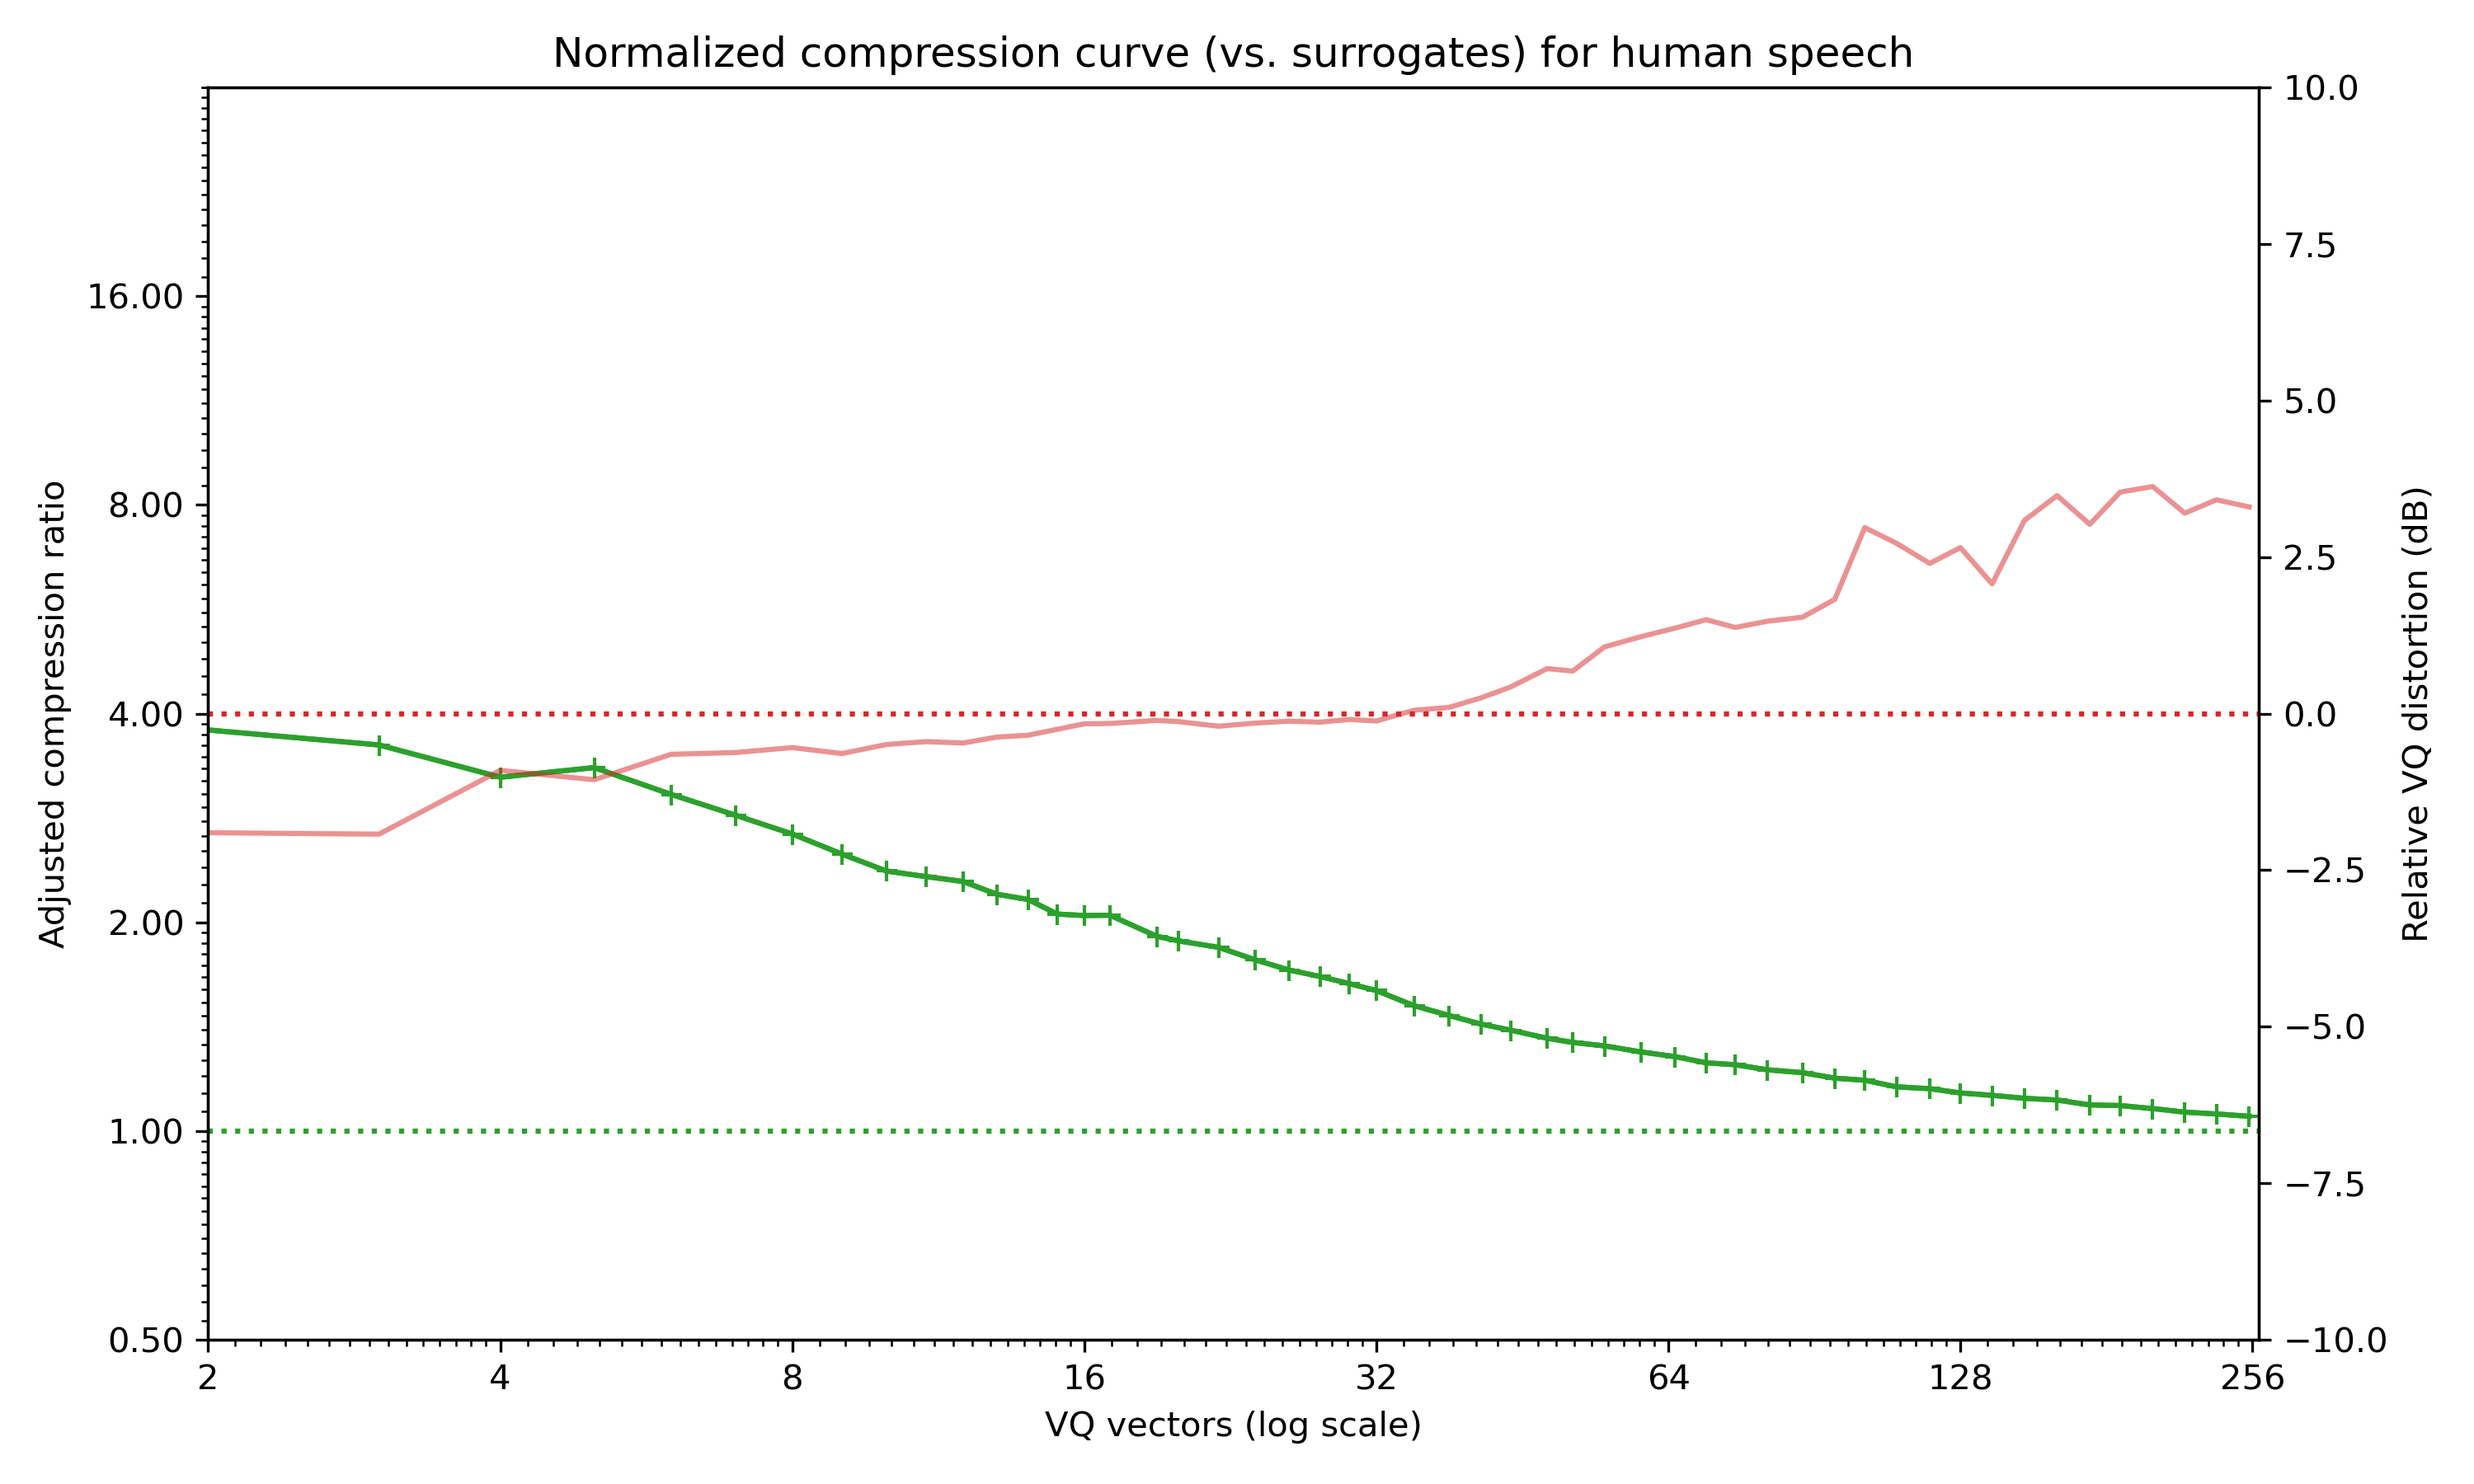
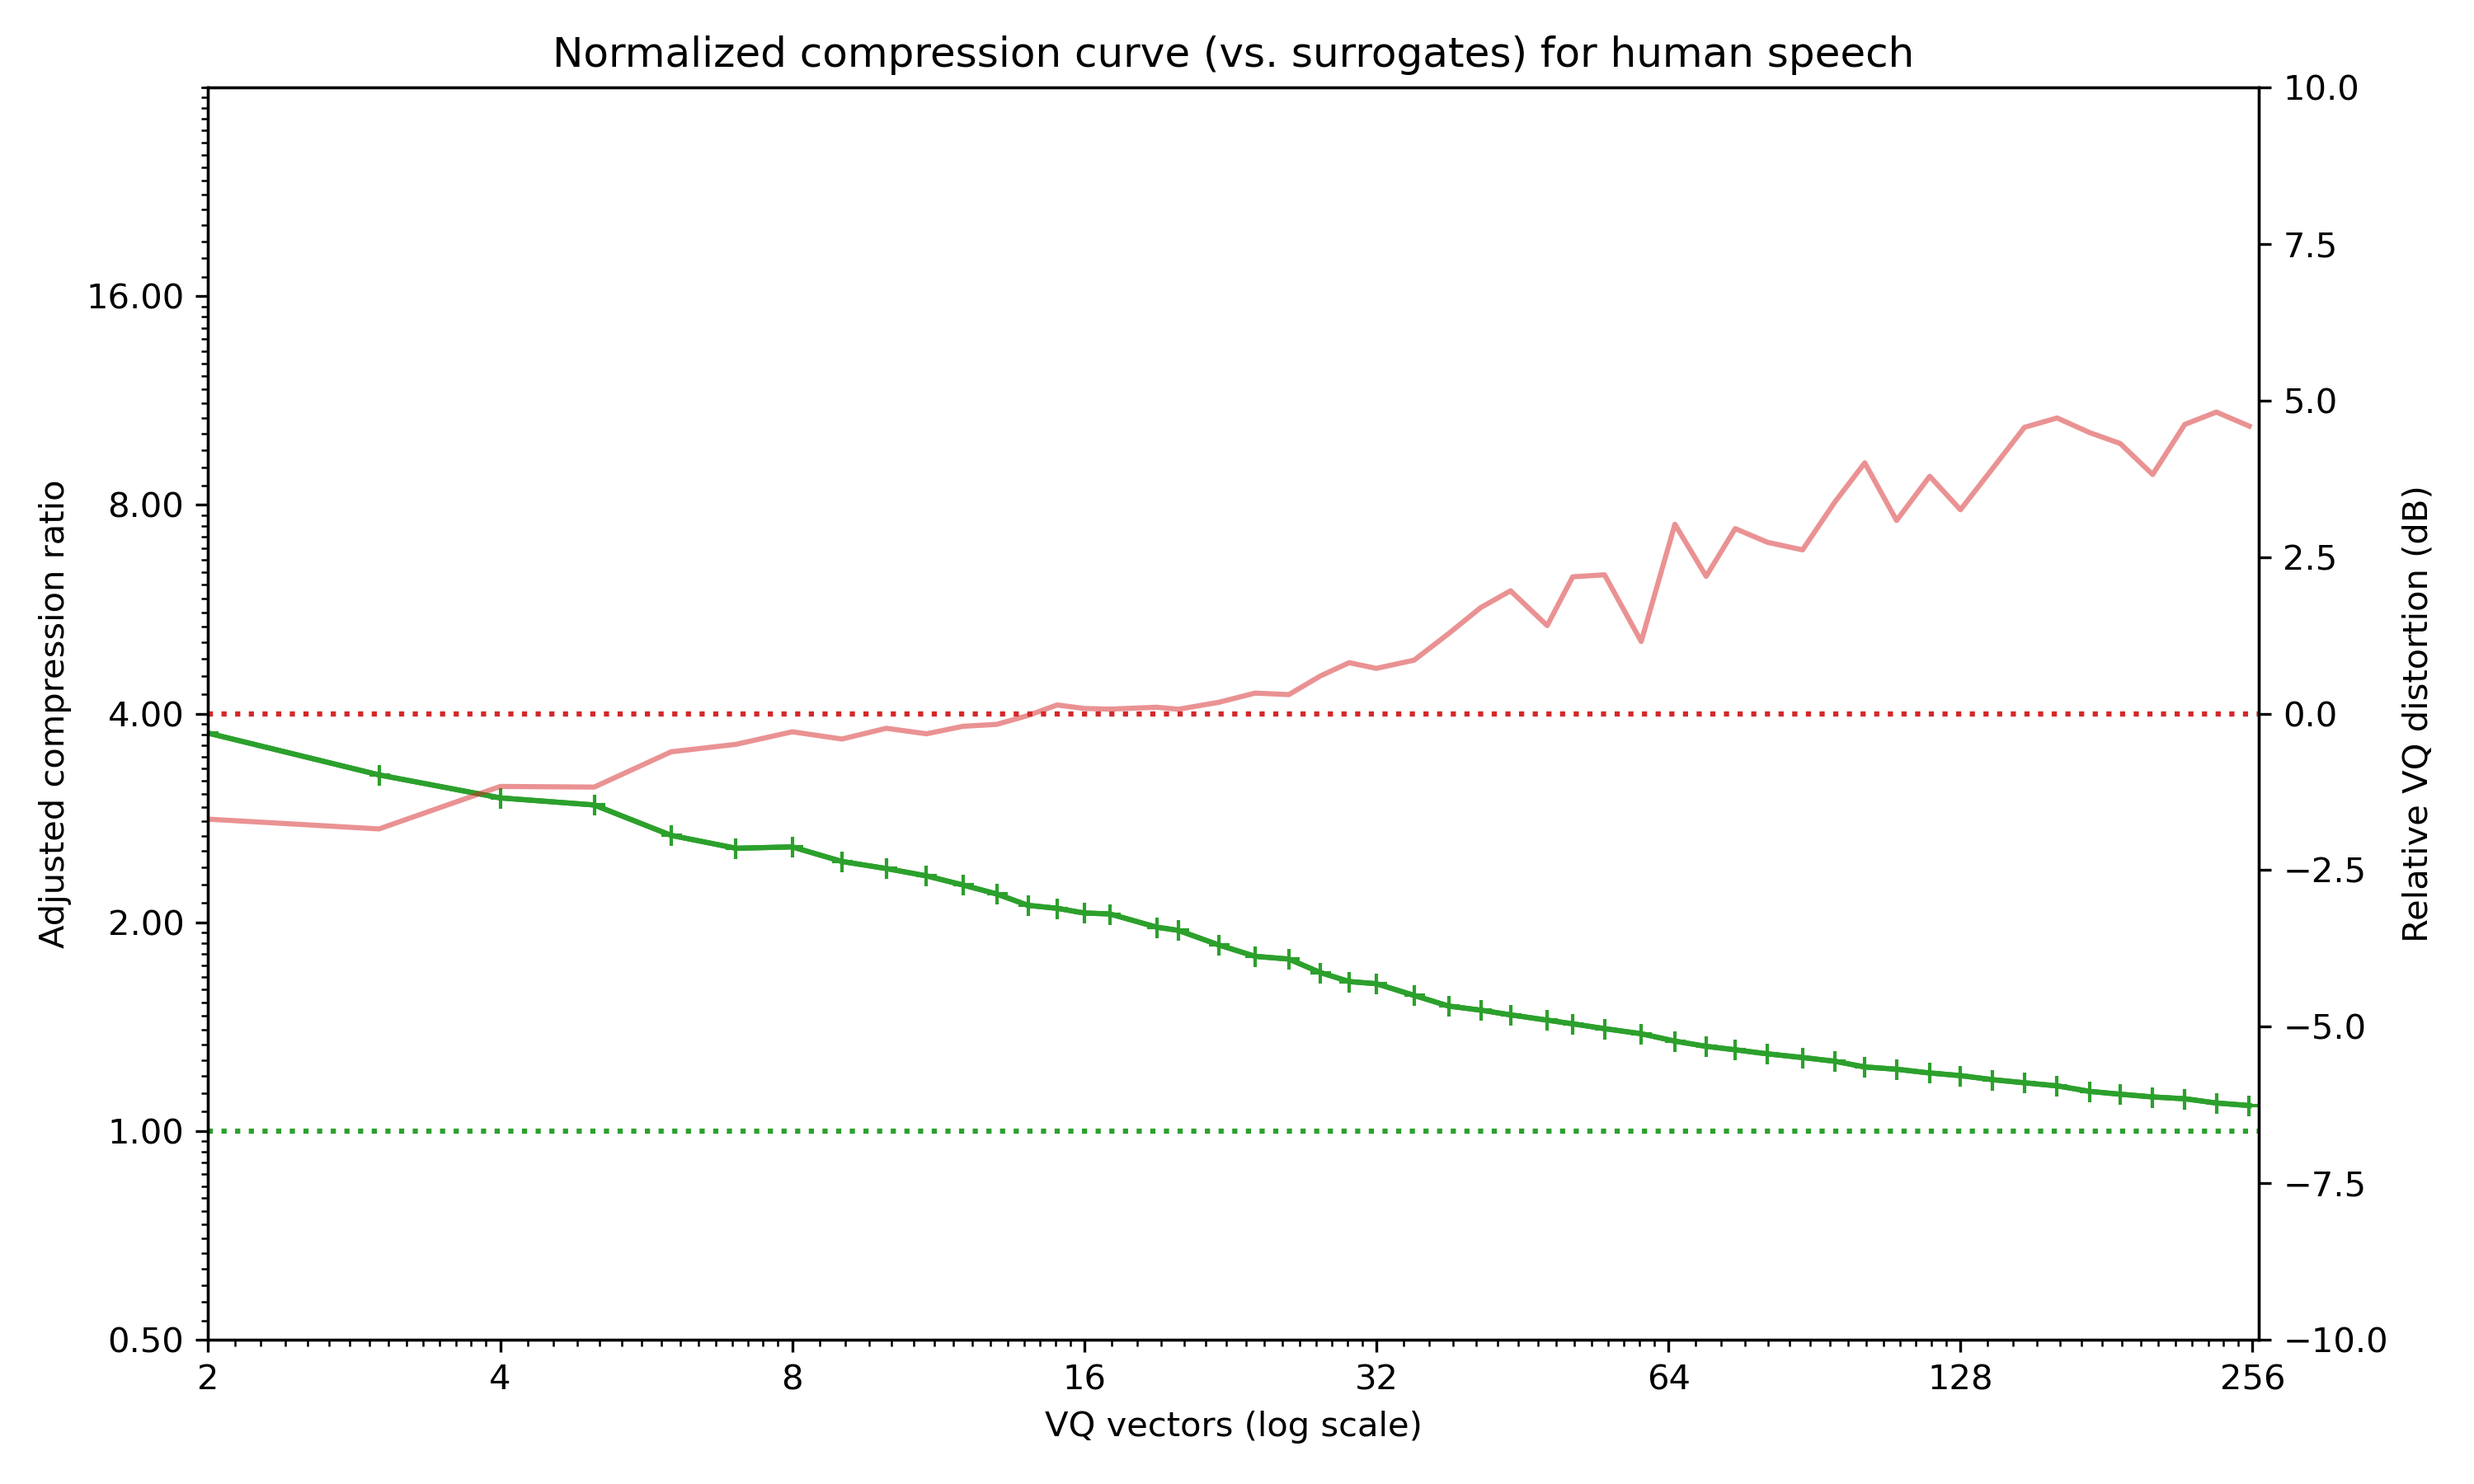
Updated gitignore and speech example

diff --git a/vq.py b/vq.py
@@ -6,6 +6,13 @@ import sklearn.decomposition, sklearn.preprocessing
 from compress import normalized_compress_len
 from fractions import Fraction
 
+try: 
+    import faiss 
+    faiss_available = True    
+except:
+    faiss_available = False
+    print("No faiss; kmeans will be slow")
+
 def gaussian_pyramid(signal, factor=2, min_length=1):
     """Take a MxN signal, and progressively blur
     and decimate the signal until it becomes [min_length x N].
@@ -75,9 +82,13 @@ def vq(m, k, whiten="standard", pca=None, subsample=1):
         m_white = sklearn.preprocess.MinMaxScaler().fit_transform(m)
     elif whiten == "none":
         m_white = m    
-    # compute cluster centres, optionally subsampling the data first    
-    code, distortion = scipy.cluster.vq.kmeans(m_white[::subsample], k)
-    codes, dists = scipy.cluster.vq.vq(m_white, code)
+    # compute cluster centres, optionally subsampling the data first   
+    if faiss_available:
+        code = faiss.kmeans(m_white[::subsample], k, niter=200) 
+        dists, codes = code.kmeans.index.search(m_white.astype(np.float32),1)
+    else:
+        code, distortion = scipy.cluster.vq.kmeans(m_white[::subsample], k)    
+        codes, dists = scipy.cluster.vq.vq(m_white, code)
     return codes, np.mean(dists)
 
 def vq_range(m, ks, **kwargs):

diff --git a/readme.md b/readme.md
@@ -2,9 +2,9 @@
 
 This repostitory has some simple Python functions for analysing continuous (multivariate) time series in terms of compression. The basic principle is to quantize the continuous data, compress it with a standard algorithm (like LZW), and then measure how much shorter the compressed version is. 
 
-<img src="imgs/speech_compression_curve.png" width="80%">
+<img src="imgs/speech_compression_curve.png" width="100% ">
 
-*Normalised compression curve for a recording of human speech. Green line shows the compression ratio, while the orange shows (excess) quantisation error.*
+*Normalised compression curve for a recording of a few seconds of human speech (PCM, 11Khz). Green line shows the compression ratio, while the orange shows (excess) quantisation error.*
 
 ```python
 import scipy.io.wavfile
@@ -21,9 +21,9 @@ Any discretised compression obviously depends on the quantisation used. I addres
 
 Random data is incompressible, so shows a flat curve:
 
-<img src="imgs/std_normal_compression_curve.png" width="80%">
+<img src="imgs/std_normal_compression_curve.png" width="100% ">
 
-*Compression curve for random normal data -- incompressible data appears as a flat line.*
+*Compression curve for random normal data -- incompressible data appears as a flat green line.*
 
 The underlying hypothesis is that lossless compression like LZW (weakly) bounds the Kolmogorov complexity of a sequence, an approximation which gets better as sequences get longer. This is a practically useful measure of how "complex" a signal is, although theoretically controversial. Lossless compressors apply to discrete sequences, so a discretisation step is required. I use simple k-means vector quantisation. 
 
@@ -36,19 +36,19 @@ The standard plots produced by `plot_compression_curve` show:
 - the excess mean distortion in decibels, which is the the average error introduced by quantisation *minus* the expected quantisation level for `k` levels (6.02 log2(k) - 1.76 dB)
 The plots use a log-scale x-axis with number of clusters `k` ranging from 2 to 256, geometrically spaced.
 
-<img src="imgs/sine_compression_curve.png" width="80%">
+<img src="imgs/sine_compression_curve.png" width="100% ">
 
 *Compression curve for a sine wave as produced by `plot_compression_curve`. This signal is obviously very repetitive and compresses extremely well!*
 
 `plot_absolute_compression_curve` removes the surrogate compensation and the expected quantisation level and just plots the raw compression level and quantisation error.
 
-<img src="imgs/abs_sine_compression_curve.png" width="80%">
+<img src="imgs/abs_sine_compression_curve.png" width="100% ">
 
 *Absolute compression curve for the sine wave example.*
 
 The rate-distortion curve can be plotted with `plot_rd_curve`, and shows the surrogate-compensated compression ratio against absolute quantisation error:
 
-<img src="imgs/sine_rd_curve.png" width="80%">
+<img src="imgs/sine_rd_curve.png" width="100% ">
 
 *Rate-distortion curve for the sine wave.*
 
@@ -109,7 +109,7 @@ set_relative_compression_curve_axes(ax)
 
 This produces one curve per pyramid level:
 
-<img src="imgs/speech_pyramid_compression_curve.png" width="80%">
+<img src="imgs/speech_pyramid_compression_curve.png" width="100% ">
 
 *The speech example, with a Gaussian pyramid from decimation of 2^0 to 2^7*
 
@@ -118,7 +118,7 @@ This produces one curve per pyramid level:
 
 This example shows a 4D timeseries of ECG and breathing data from PhysioNet (see attribution below). The compression curve for a sweep through 1..4 PCA dimensions is shown below.
 
-<img src="imgs/ecg_resp_compression_curve.png" width="80%">
+<img src="imgs/ecg_resp_compression_curve.png" width="100% ">
 
 *ECG and breathing data, first 10000 samples from sample `b001` of the CEBSDB 1.0.0 dataset, with n=1 to n=4 PCA dimensions preserved.*
 
